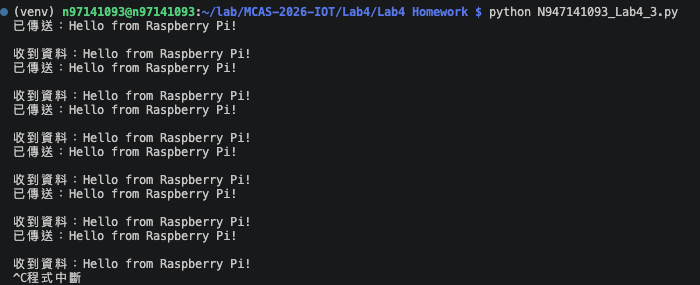
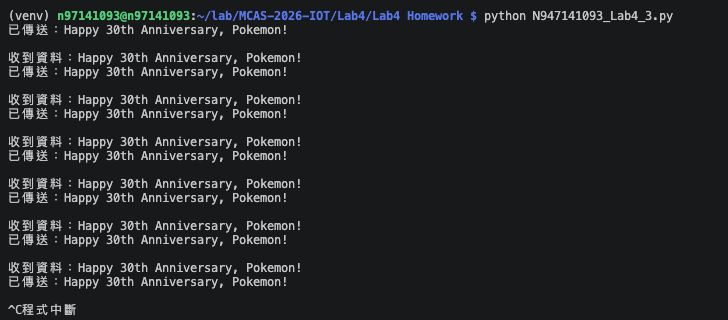
Update Lab4-3 Python code and screenshot

Changed region(s): [[0.0, 0.2807, 0.42, 1.0], [0.0, 0.0, 0.99, 0.1123], [0.0, 0.1404, 0.42, 0.2526]]

diff --git a/Lab4/Lab4 Homework/N947141093_Lab4_3.py b/Lab4/Lab4 Homework/N947141093_Lab4_3.py
@@ -25,7 +25,7 @@ def receive_data():
 # 主程式
 try:
     while True:
-        send_data("Hello from Raspberry Pi!\n")
+        send_data("Happy 30th Anniversary, Pokemon!\n")
         time.sleep(1)
         receive_data()
         time.sleep(1)
